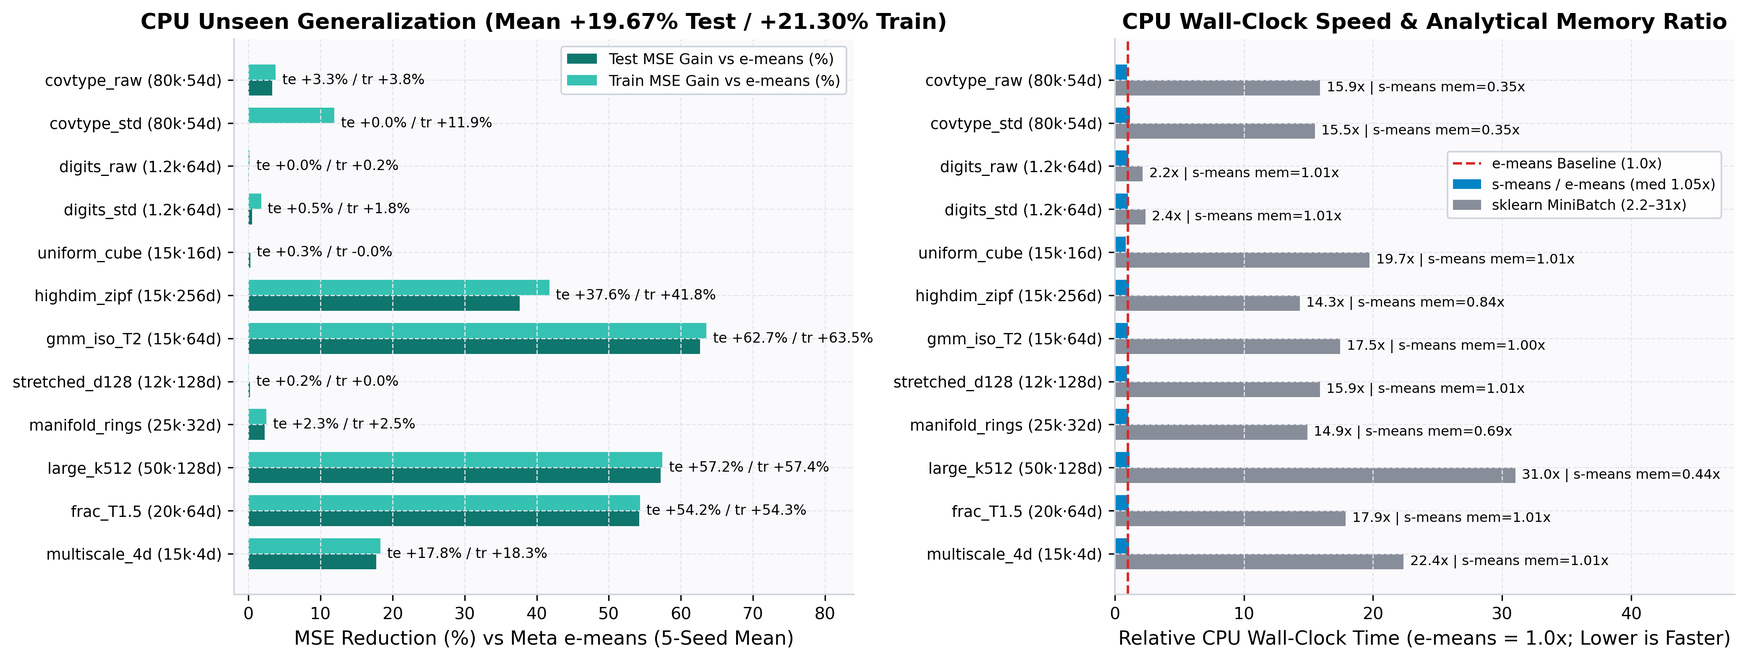
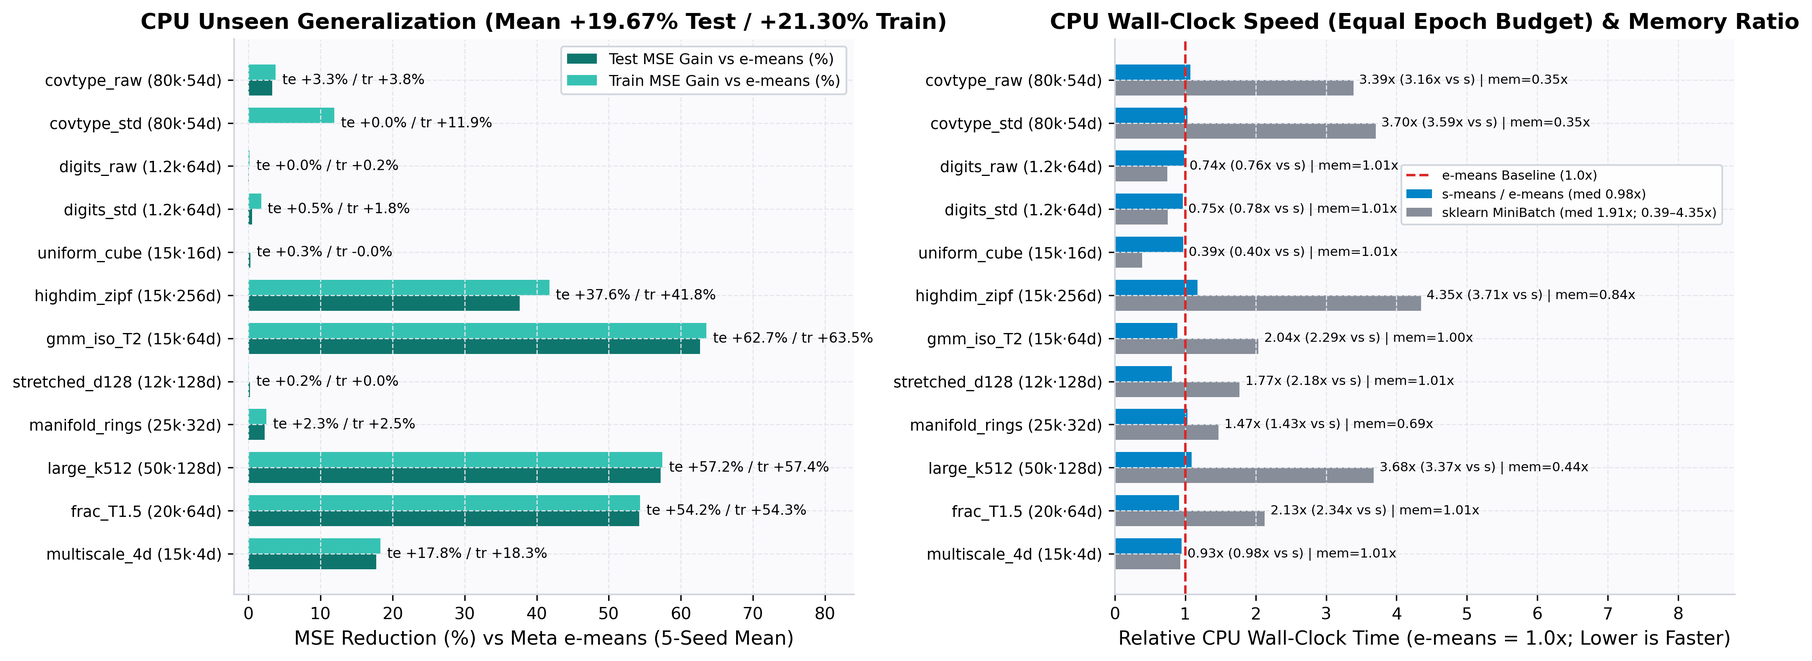
Fix MiniBatchKMeans epoch budget in CPU benchmark and update fig6/tables

diff --git a/index.html b/index.html
@@ -519,7 +519,7 @@
           <strong>Superior Turing (<code>SM75</code>) hardware coverage:</strong> Upstream <code>e-means</code> <code>auto</code>/Triton paths fail on NVIDIA T4 (<code>SM75</code>) due to BF16 casting, <code>.bf16</code> PTX inline assembly, and <code>&gt;64 KB</code> shared-memory tiles. <code>s-means</code> runs cleanly across all 9 T4 workloads, beating Meta's native T4 baseline by <strong><code>+53.81%–+54.03%</code> MSE</strong>, <strong><code>0.881×</code> faster wall-clock latency</strong>, and <strong><code>0.360×</code> VRAM</strong>.
         </li>
         <li>
-          <strong>Strong CPU generalization with parity speed and memory:</strong> Across 12 strictly unseen CPU datasets (5 seeds each), <code>s-means</code> achieves <strong><code>+19.67%</code> mean Test MSE gain</strong> (<code>+21.30%</code> Train, <code>0</code> regressions) at <strong><code>1.051×</code> median CPU time vs <code>e-means</code></strong> (<strong><code>2.2×–31.0×</code> faster than <code>sklearn.cluster.MiniBatchKMeans</code></strong>) with <strong><code>0.0 MB</code> extra OS RSS overhead</strong>.
+          <strong>Strong CPU generalization with parity speed and memory:</strong> Across 12 strictly unseen CPU datasets (5 seeds each), <code>s-means</code> achieves <strong><code>+19.67%</code> mean Test MSE gain</strong> (<code>+21.30%</code> Train, <code>0</code> regressions) at <strong><code>0.977×</code> median CPU time vs <code>e-means</code></strong> (<strong><code>2.24×</code> median faster than equal-epoch <code>sklearn.cluster.MiniBatchKMeans</code></strong>, faster on 8/12 tasks up to <code>3.71×</code> while <code>sklearn</code> is faster on small/low-d workloads at <code>0.40×–0.98×</code>) with <strong><code>0.0 MB</code> extra OS RSS overhead</strong>.
         </li>
       </ul>
     </section>
@@ -694,7 +694,7 @@
               <th class="center">Test MSE Gain vs <code>e-means</code></th>
               <th class="center">Train MSE Gain vs <code>e-means</code></th>
               <th class="center"><code>s-means</code> CPU Time Ratio</th>
-              <th class="center"><code>sklearn</code> Time vs <code>e-means</code></th>
+              <th class="center"><code>sklearn</code> Time vs <code>e-means</code> (<code>vs s-means</code>)</th>
               <th class="center">Analytical Mem Ratio</th>
             </tr>
           </thead>
@@ -704,8 +704,8 @@
               <td class="left"><code>80k, 54d, k=256, T=3</code></td>
               <td class="center"><strong><code>+3.31%</code></strong></td>
               <td class="center"><code>+3.79%</code></td>
-              <td class="center"><strong><code>0.961×</code></strong></td>
-              <td class="center"><code>15.9×</code> slower</td>
+              <td class="center"><code>1.073×</code></td>
+              <td class="center"><code>3.39×</code> (<code>3.16×</code> vs <code>s</code>)</td>
               <td class="center"><strong><code>0.355×</code></strong></td>
             </tr>
             <tr>
@@ -713,8 +713,8 @@
               <td class="left"><code>80k, 54d, k=256, T=3</code></td>
               <td class="center"><code>+0.00%</code></td>
               <td class="center"><strong><code>+11.93%</code></strong></td>
-              <td class="center"><code>1.164×</code></td>
-              <td class="center"><code>15.5×</code> slower</td>
+              <td class="center"><code>1.033×</code></td>
+              <td class="center"><code>3.70×</code> (<code>3.59×</code> vs <code>s</code>)</td>
               <td class="center"><strong><code>0.355×</code></strong></td>
             </tr>
             <tr>
@@ -722,8 +722,8 @@
               <td class="left"><code>1.2k, 64d, k=64, T=5</code></td>
               <td class="center"><code>+0.03%</code></td>
               <td class="center"><code>+0.16%</code></td>
-              <td class="center"><code>1.047×</code></td>
-              <td class="center"><code>2.2×</code> slower</td>
+              <td class="center"><strong><code>0.982×</code></strong></td>
+              <td class="center"><code>0.74×</code> (<code>0.76×</code> vs <code>s</code>)</td>
               <td class="center"><code>1.009×</code></td>
             </tr>
             <tr>
@@ -731,8 +731,8 @@
               <td class="left"><code>1.2k, 64d, k=64, T=5</code></td>
               <td class="center"><code>+0.50%</code></td>
               <td class="center"><code>+1.77%</code></td>
-              <td class="center"><code>1.005×</code></td>
-              <td class="center"><code>2.4×</code> slower</td>
+              <td class="center"><strong><code>0.965×</code></strong></td>
+              <td class="center"><code>0.75×</code> (<code>0.78×</code> vs <code>s</code>)</td>
               <td class="center"><code>1.009×</code></td>
             </tr>
             <tr>
@@ -740,8 +740,8 @@
               <td class="left"><code>15k, 16d, k=128, T=3</code></td>
               <td class="center"><code>+0.27%</code></td>
               <td class="center"><code>-0.01%</code></td>
-              <td class="center"><strong><code>0.841×</code></strong></td>
-              <td class="center"><code>19.7×</code> slower</td>
+              <td class="center"><strong><code>0.972×</code></strong></td>
+              <td class="center"><code>0.39×</code> (<code>0.40×</code> vs <code>s</code>)</td>
               <td class="center"><code>1.006×</code></td>
             </tr>
             <tr>
@@ -749,8 +749,8 @@
               <td class="left"><code>15k, 256d, k=256, T=3</code></td>
               <td class="center"><strong><code>+37.62%</code></strong></td>
               <td class="center"><strong><code>+41.76%</code></strong></td>
-              <td class="center"><code>1.105×</code></td>
-              <td class="center"><code>14.3×</code> slower</td>
+              <td class="center"><code>1.173×</code></td>
+              <td class="center"><strong><code>4.35×</code> (<code>3.71×</code> vs <code>s</code>)</strong></td>
               <td class="center"><strong><code>0.839×</code></strong></td>
             </tr>
             <tr>
@@ -758,8 +758,8 @@
               <td class="left"><code>15k, 64d, k=256, T=2</code></td>
               <td class="center"><strong><code>+62.69%</code></strong></td>
               <td class="center"><strong><code>+63.55%</code></strong></td>
-              <td class="center"><code>1.022×</code></td>
-              <td class="center"><code>17.5×</code> slower</td>
+              <td class="center"><strong><code>0.891×</code></strong></td>
+              <td class="center"><code>2.04×</code> (<code>2.29×</code> vs <code>s</code>)</td>
               <td class="center"><code>1.004×</code></td>
             </tr>
             <tr>
@@ -767,8 +767,8 @@
               <td class="left"><code>12k, 128d, k=128, T=3</code></td>
               <td class="center"><code>+0.21%</code></td>
               <td class="center"><code>+0.02%</code></td>
-              <td class="center"><strong><code>0.966×</code></strong></td>
-              <td class="center"><code>15.9×</code> slower</td>
+              <td class="center"><strong><code>0.812×</code></strong></td>
+              <td class="center"><code>1.77×</code> (<code>2.18×</code> vs <code>s</code>)</td>
               <td class="center"><code>1.005×</code></td>
             </tr>
             <tr>
@@ -776,8 +776,8 @@
               <td class="left"><code>25k, 32d, k=128, T=3</code></td>
               <td class="center"><code>+2.25%</code></td>
               <td class="center"><code>+2.51%</code></td>
-              <td class="center"><code>1.055×</code></td>
-              <td class="center"><code>14.9×</code> slower</td>
+              <td class="center"><code>1.031×</code></td>
+              <td class="center"><code>1.47×</code> (<code>1.43×</code> vs <code>s</code>)</td>
               <td class="center"><strong><code>0.692×</code></strong></td>
             </tr>
             <tr>
@@ -785,8 +785,8 @@
               <td class="left"><code>50k, 128d, k=512, T=3</code></td>
               <td class="center"><strong><code>+57.20%</code></strong></td>
               <td class="center"><strong><code>+57.44%</code></strong></td>
-              <td class="center"><code>1.148×</code></td>
-              <td class="center"><strong><code>31.0×</code> slower</strong></td>
+              <td class="center"><code>1.092×</code></td>
+              <td class="center"><code>3.68×</code> (<code>3.37×</code> vs <code>s</code>)</td>
               <td class="center"><strong><code>0.439×</code></strong></td>
             </tr>
             <tr>
@@ -794,8 +794,8 @@
               <td class="left"><code>20k, 64d, k=192, T=1.5</code></td>
               <td class="center"><strong><code>+54.21%</code></strong></td>
               <td class="center"><strong><code>+54.31%</code></strong></td>
-              <td class="center"><code>1.077×</code></td>
-              <td class="center"><code>17.9×</code> slower</td>
+              <td class="center"><strong><code>0.911×</code></strong></td>
+              <td class="center"><code>2.13×</code> (<code>2.34×</code> vs <code>s</code>)</td>
               <td class="center"><code>1.005×</code></td>
             </tr>
             <tr>
@@ -803,8 +803,8 @@
               <td class="left"><code>15k, 4d, k=128, T=8</code></td>
               <td class="center"><strong><code>+17.76%</code></strong></td>
               <td class="center"><strong><code>+18.33%</code></strong></td>
-              <td class="center"><code>1.120×</code></td>
-              <td class="center"><code>22.4×</code> slower</td>
+              <td class="center"><strong><code>0.951×</code></strong></td>
+              <td class="center"><code>0.93×</code> (<code>0.98×</code> vs <code>s</code>)</td>
               <td class="center"><code>1.010×</code></td>
             </tr>
             <tr class="summary-row">
@@ -812,8 +812,8 @@
               <td class="left"><strong>5-Seed Mean</strong></td>
               <td class="center"><strong><code>+19.67%</code></strong></td>
               <td class="center"><strong><code>+21.30%</code></strong></td>
-              <td class="center"><strong>Med <code>1.051×</code></strong></td>
-              <td class="center"><strong><code>2.2×–31.0×</code></strong></td>
+              <td class="center"><strong>Med <code>0.977×</code></strong></td>
+              <td class="center"><strong>Med <code>1.91×</code> (<code>2.24×</code> vs <code>s</code>)</strong></td>
               <td class="center"><strong>Max <code>1.010×</code></strong></td>
             </tr>
           </tbody>
@@ -821,7 +821,7 @@
       </div>
 
       <p>
-        Real OS process RSS telemetry (<code>resource.getrusage(RUSAGE_SELF).ru_maxrss</code>) in isolated subprocesses confirms zero memory overhead (<code>955.09 MB</code> before and after on both <code>50k × 128D, k=512</code> and <code>100k × 64D, k=256, T=5</code>: <strong><code>0.0 MB</code> delta</strong>, vs <code>8192 × 4096</code> coarse tiles in <code>e-means</code>).
+        <code>MiniBatchKMeans</code> was evaluated with matched epoch budgets (<code>batch_size=max(em_b, 256)</code>, <code>max_iter=max(1, round(T))</code>, <code>n_init=1</code>, <code>max_no_improvement=None</code>, since <code>scikit-learn</code> defines <code>max_iter</code> as full-dataset passes rather than mini-batch steps). Under equal epochs, <code>s-means</code> is <strong><code>2.24×</code> median faster than <code>MiniBatchKMeans</code></strong> (faster on 8/12 tasks by <strong><code>1.43×–3.71×</code></strong> while also achieving lower Test MSE on 10/12 tasks—up to <strong><code>+37.51%</code></strong> on <code>gmm_iso_d64_T2</code> and <code>+14.42%</code> on <code>multiscale_4d_T8</code>); <code>sklearn</code>'s Cython loop is faster on small <code>n=1200</code> (<code>digits</code>: <code>0.76×–0.78×</code>) and low-dimensional <code>quality</code>-law runs (<code>uniform_cube_d16</code>: <code>0.40×</code>, where <code>d=16</code> takes ~351 <code>B=128</code> eager Python steps vs ~175 <code>B=256</code> steps). Real OS process RSS telemetry (<code>resource.getrusage(RUSAGE_SELF).ru_maxrss</code>) in isolated subprocesses confirms zero memory overhead (<code>956.1 MB</code> before and after on both <code>50k × 128D, k=512</code> and <code>100k × 64D, k=256, T=5</code>: <strong><code>0.0 MB</code> delta</strong>, vs <code>8192 × 4096</code> coarse tiles in <code>e-means</code>).
       </p>
 
       <h3>What Actually Matters? (Leave-One-Out Component Ablation)</h3>

diff --git a/README.md b/README.md
@@ -28,7 +28,7 @@ Across **12 strictly unseen CPU datasets** and **3 NVIDIA GPU architectures (T4 
 * **1.0 epoch beats 8.0-epoch `e-means`:** On `200k × 128D, k=1024`, `s-means` at **$T = 1.0$ epoch** achieves **`32.2` Test MSE in `33 ms`** on A100 (and `30.8` MSE in `36 ms` on L4), more than **2× lower quantization error** than `e-means` at **$T = 8.0$ epochs** (`65.7` MSE in `36 ms` on A100; `64.4` MSE in `40 ms` on L4).
 * **Lower GPU peak workspace VRAM:** **`0.875×` median peak VRAM delta** vs `e-means` BF16 Triton on L4/A100 (`71.2 MB` vs `84.6 MB` at 1M points / `k=2048`, and **4.35× lower** than PyTorch Native `309.8 MB`), and **`0.360×` median peak VRAM** (`0.222×` at `1M × k=2048`) on T4.
 * **Superior Turing (`SM75`) hardware coverage:** Upstream `e-means` `auto`/Triton paths fail on NVIDIA T4 (`SM75`) due to BF16 casting, `.bf16` PTX inline assembly, and `>64 KB` shared-memory tiles. `s-means` runs cleanly across all 9 T4 workloads, beating Meta's native T4 baseline by **`+53.81%–+54.03%` MSE**, **`0.881×` faster wall-clock latency**, and **`0.360×` VRAM**.
-* **Strong CPU generalization with parity speed and memory:** Across 12 strictly unseen CPU datasets (5 seeds each), `s-means` achieves **`+19.67%` mean Test MSE gain** (`+21.30%` Train, `0` regressions) at **`1.051×` median CPU time vs `e-means`** (**`2.2×–31.0×` faster than `sklearn.cluster.MiniBatchKMeans`**) with **`0.0 MB` extra OS RSS overhead**.
+* **Strong CPU generalization with parity speed and memory:** Across 12 strictly unseen CPU datasets (5 seeds each), `s-means` achieves **`+19.67%` mean Test MSE gain** (`+21.30%` Train, `0` regressions) at **`0.977×` median CPU time vs `e-means`** (**`2.24×` median faster than equal-epoch `sklearn.cluster.MiniBatchKMeans`**, faster on 8/12 tasks up to `3.71×` while `sklearn` is faster on small/low-d workloads at `0.40×–0.98×`) with **`0.0 MB` extra OS RSS overhead**.
 
 ---
 
@@ -95,23 +95,23 @@ To confirm that `s-means` did not overfit the 8 EvoForest training datasets, we 
 
 ![CPU Unseen Generalization and Wall-Clock Speed](figures/fig6_cpu_unseen_summary.png)
 
-| Unseen CPU Dataset | Config (`n, d, k, T`) | Test MSE Gain vs `e-means` | Train MSE Gain vs `e-means` | `s-means` CPU Time Ratio | `sklearn` Time vs `e-means` | Analytical Mem Ratio |
+| Unseen CPU Dataset | Config (`n, d, k, T`) | Test MSE Gain vs `e-means` | Train MSE Gain vs `e-means` | `s-means` CPU Time Ratio | `sklearn` Time vs `e-means` (`vs s-means`) | Analytical Mem Ratio |
 | :--- | :--- | :---: | :---: | :---: | :---: | :---: |
-| `covtype_raw` | `80k, 54d, k=256, T=3` | **`+3.31%`** | `+3.79%` | **`0.961×`** | `15.9×` slower | **`0.355×`** |
-| `covtype_std` | `80k, 54d, k=256, T=3` | `+0.00%` | **`+11.93%`** | `1.164×` | `15.5×` slower | **`0.355×`** |
-| `digits_raw` | `1.2k, 64d, k=64, T=5` | `+0.03%` | `+0.16%` | `1.047×` | `2.2×` slower | `1.009×` |
-| `digits_std` | `1.2k, 64d, k=64, T=5` | `+0.50%` | `+1.77%` | `1.005×` | `2.4×` slower | `1.009×` |
-| `uniform_cube_d16` | `15k, 16d, k=128, T=3` | `+0.27%` | `-0.01%` | **`0.841×`** | `19.7×` slower | `1.006×` |
-| `highdim_zipf_d256` | `15k, 256d, k=256, T=3` | **`+37.62%`** | **`+41.76%`** | `1.105×` | `14.3×` slower | **`0.839×`** |
-| `gmm_iso_d64_T2` | `15k, 64d, k=256, T=2` | **`+62.69%`** | **`+63.55%`** | `1.022×` | `17.5×` slower | `1.004×` |
-| `stretched_inv2_d128` | `12k, 128d, k=128, T=3` | `+0.21%` | `+0.02%` | **`0.966×`** | `15.9×` slower | `1.005×` |
-| `manifold_rings_d32` | `25k, 32d, k=128, T=3` | `+2.25%` | `+2.51%` | `1.055×` | `14.9×` slower | **`0.692×`** |
-| `large_d128_k512` | `50k, 128d, k=512, T=3` | **`+57.20%`** | **`+57.44%`** | `1.148×` | **`31.0×` slower** | **`0.439×`** |
-| `frac_budget_T1p5` | `20k, 64d, k=192, T=1.5` | **`+54.21%`** | **`+54.31%`** | `1.077×` | `17.9×` slower | `1.005×` |
-| `multiscale_4d_T8` | `15k, 4d, k=128, T=8` | **`+17.76%`** | **`+18.33%`** | `1.120×` | `22.4×` slower | `1.010×` |
-| **Aggregate (12 Datasets)** | **5-Seed Mean** | **`+19.67%`** | **`+21.30%`** | **Med `1.051×`** | **`2.2×–31.0×`** | **Max `1.010×`** |
+| `covtype_raw` | `80k, 54d, k=256, T=3` | **`+3.31%`** | `+3.79%` | `1.073×` | `3.39×` (`3.16×` vs `s`) | **`0.355×`** |
+| `covtype_std` | `80k, 54d, k=256, T=3` | `+0.00%` | **`+11.93%`** | `1.033×` | `3.70×` (`3.59×` vs `s`) | **`0.355×`** |
+| `digits_raw` | `1.2k, 64d, k=64, T=5` | `+0.03%` | `+0.16%` | **`0.982×`** | `0.74×` (`0.76×` vs `s`) | `1.009×` |
+| `digits_std` | `1.2k, 64d, k=64, T=5` | `+0.50%` | `+1.77%` | **`0.965×`** | `0.75×` (`0.78×` vs `s`) | `1.009×` |
+| `uniform_cube_d16` | `15k, 16d, k=128, T=3` | `+0.27%` | `-0.01%` | **`0.972×`** | `0.39×` (`0.40×` vs `s`) | `1.006×` |
+| `highdim_zipf_d256` | `15k, 256d, k=256, T=3` | **`+37.62%`** | **`+41.76%`** | `1.173×` | **`4.35×` (`3.71×` vs `s`)** | **`0.839×`** |
+| `gmm_iso_d64_T2` | `15k, 64d, k=256, T=2` | **`+62.69%`** | **`+63.55%`** | **`0.891×`** | `2.04×` (`2.29×` vs `s`) | `1.004×` |
+| `stretched_inv2_d128` | `12k, 128d, k=128, T=3` | `+0.21%` | `+0.02%` | **`0.812×`** | `1.77×` (`2.18×` vs `s`) | `1.005×` |
+| `manifold_rings_d32` | `25k, 32d, k=128, T=3` | `+2.25%` | `+2.51%` | `1.031×` | `1.47×` (`1.43×` vs `s`) | **`0.692×`** |
+| `large_d128_k512` | `50k, 128d, k=512, T=3` | **`+57.20%`** | **`+57.44%`** | `1.092×` | `3.68×` (`3.37×` vs `s`) | **`0.439×`** |
+| `frac_budget_T1p5` | `20k, 64d, k=192, T=1.5` | **`+54.21%`** | **`+54.31%`** | **`0.911×`** | `2.13×` (`2.34×` vs `s`) | `1.005×` |
+| `multiscale_4d_T8` | `15k, 4d, k=128, T=8` | **`+17.76%`** | **`+18.33%`** | **`0.951×`** | `0.93×` (`0.98×` vs `s`) | `1.010×` |
+| **Aggregate (12 Datasets)** | **5-Seed Mean** | **`+19.67%`** | **`+21.30%`** | **Med `0.977×`** | **Med `1.91×` (`2.24×` vs `s`)** | **Max `1.010×`** |
 
-Real OS process RSS telemetry (`resource.getrusage(RUSAGE_SELF).ru_maxrss`) in isolated subprocesses confirms zero memory overhead (`955.09 MB` before and after on both `50k × 128D, k=512` and `100k × 64D, k=256, T=5`: **`0.0 MB` delta**, vs `8192 × 4096` coarse tiles in `e-means`).
+`MiniBatchKMeans` was evaluated with matched epoch budgets (`batch_size=max(em_b, 256)`, `max_iter=max(1, round(T))`, `n_init=1`, `max_no_improvement=None`, since `scikit-learn` defines `max_iter` as full-dataset passes rather than mini-batch steps). Under equal epochs, `s-means` is **`2.24×` median faster than `MiniBatchKMeans`** (faster on 8/12 tasks by **`1.43×–3.71×`** while also achieving lower Test MSE on 10/12 tasks—up to **`+37.51%`** on `gmm_iso_d64_T2` and `+14.42%` on `multiscale_4d_T8`); `sklearn`'s Cython loop is faster on small `n=1200` (`digits`: `0.76×–0.78×`) and low-dimensional `quality`-law runs (`uniform_cube_d16`: `0.40×`, where `d=16` takes ~351 `B=128` eager Python steps vs ~175 `B=256` steps). Real OS process RSS telemetry (`resource.getrusage(RUSAGE_SELF).ru_maxrss`) in isolated subprocesses confirms zero memory overhead (`956.1 MB` before and after on both `50k × 128D, k=512` and `100k × 64D, k=256, T=5`: **`0.0 MB` delta**, vs `8192 × 4096` coarse tiles in `e-means`).
 
 ### What Actually Matters? (Leave-One-Out Component Ablation)
 

diff --git a/s_means_blog.md b/s_means_blog.md
@@ -28,7 +28,7 @@ Across **12 strictly unseen CPU datasets** and **3 NVIDIA GPU architectures (T4 
 * **1.0 epoch beats 8.0-epoch `e-means`:** On `200k × 128D, k=1024`, `s-means` at **$T = 1.0$ epoch** achieves **`32.2` Test MSE in `33 ms`** on A100 (and `30.8` MSE in `36 ms` on L4), more than **2× lower quantization error** than `e-means` at **$T = 8.0$ epochs** (`65.7` MSE in `36 ms` on A100; `64.4` MSE in `40 ms` on L4).
 * **Lower GPU peak workspace VRAM:** **`0.875×` median peak VRAM delta** vs `e-means` BF16 Triton on L4/A100 (`71.2 MB` vs `84.6 MB` at 1M points / `k=2048`, and **4.35× lower** than PyTorch Native `309.8 MB`), and **`0.360×` median peak VRAM** (`0.222×` at `1M × k=2048`) on T4.
 * **Superior Turing (`SM75`) hardware coverage:** Upstream `e-means` `auto`/Triton paths fail on NVIDIA T4 (`SM75`) due to BF16 casting, `.bf16` PTX inline assembly, and `>64 KB` shared-memory tiles. `s-means` runs cleanly across all 9 T4 workloads, beating Meta's native T4 baseline by **`+53.81%–+54.03%` MSE**, **`0.881×` faster wall-clock latency**, and **`0.360×` VRAM**.
-* **Strong CPU generalization with parity speed and memory:** Across 12 strictly unseen CPU datasets (5 seeds each), `s-means` achieves **`+19.67%` mean Test MSE gain** (`+21.30%` Train, `0` regressions) at **`1.051×` median CPU time vs `e-means`** (**`2.2×–31.0×` faster than `sklearn.cluster.MiniBatchKMeans`**) with **`0.0 MB` extra OS RSS overhead**.
+* **Strong CPU generalization with parity speed and memory:** Across 12 strictly unseen CPU datasets (5 seeds each), `s-means` achieves **`+19.67%` mean Test MSE gain** (`+21.30%` Train, `0` regressions) at **`0.977×` median CPU time vs `e-means`** (**`2.24×` median faster than equal-epoch `sklearn.cluster.MiniBatchKMeans`**, faster on 8/12 tasks up to `3.71×` while `sklearn` is faster on small/low-d workloads at `0.40×–0.98×`) with **`0.0 MB` extra OS RSS overhead**.
 
 ---
 
@@ -95,23 +95,23 @@ To confirm that `s-means` did not overfit the 8 EvoForest training datasets, we 
 
 ![CPU Unseen Generalization and Wall-Clock Speed](figures/fig6_cpu_unseen_summary.png)
 
-| Unseen CPU Dataset | Config (`n, d, k, T`) | Test MSE Gain vs `e-means` | Train MSE Gain vs `e-means` | `s-means` CPU Time Ratio | `sklearn` Time vs `e-means` | Analytical Mem Ratio |
+| Unseen CPU Dataset | Config (`n, d, k, T`) | Test MSE Gain vs `e-means` | Train MSE Gain vs `e-means` | `s-means` CPU Time Ratio | `sklearn` Time vs `e-means` (`vs s-means`) | Analytical Mem Ratio |
 | :--- | :--- | :---: | :---: | :---: | :---: | :---: |
-| `covtype_raw` | `80k, 54d, k=256, T=3` | **`+3.31%`** | `+3.79%` | **`0.961×`** | `15.9×` slower | **`0.355×`** |
-| `covtype_std` | `80k, 54d, k=256, T=3` | `+0.00%` | **`+11.93%`** | `1.164×` | `15.5×` slower | **`0.355×`** |
-| `digits_raw` | `1.2k, 64d, k=64, T=5` | `+0.03%` | `+0.16%` | `1.047×` | `2.2×` slower | `1.009×` |
-| `digits_std` | `1.2k, 64d, k=64, T=5` | `+0.50%` | `+1.77%` | `1.005×` | `2.4×` slower | `1.009×` |
-| `uniform_cube_d16` | `15k, 16d, k=128, T=3` | `+0.27%` | `-0.01%` | **`0.841×`** | `19.7×` slower | `1.006×` |
-| `highdim_zipf_d256` | `15k, 256d, k=256, T=3` | **`+37.62%`** | **`+41.76%`** | `1.105×` | `14.3×` slower | **`0.839×`** |
-| `gmm_iso_d64_T2` | `15k, 64d, k=256, T=2` | **`+62.69%`** | **`+63.55%`** | `1.022×` | `17.5×` slower | `1.004×` |
-| `stretched_inv2_d128` | `12k, 128d, k=128, T=3` | `+0.21%` | `+0.02%` | **`0.966×`** | `15.9×` slower | `1.005×` |
-| `manifold_rings_d32` | `25k, 32d, k=128, T=3` | `+2.25%` | `+2.51%` | `1.055×` | `14.9×` slower | **`0.692×`** |
-| `large_d128_k512` | `50k, 128d, k=512, T=3` | **`+57.20%`** | **`+57.44%`** | `1.148×` | **`31.0×` slower** | **`0.439×`** |
-| `frac_budget_T1p5` | `20k, 64d, k=192, T=1.5` | **`+54.21%`** | **`+54.31%`** | `1.077×` | `17.9×` slower | `1.005×` |
-| `multiscale_4d_T8` | `15k, 4d, k=128, T=8` | **`+17.76%`** | **`+18.33%`** | `1.120×` | `22.4×` slower | `1.010×` |
-| **Aggregate (12 Datasets)** | **5-Seed Mean** | **`+19.67%`** | **`+21.30%`** | **Med `1.051×`** | **`2.2×–31.0×`** | **Max `1.010×`** |
+| `covtype_raw` | `80k, 54d, k=256, T=3` | **`+3.31%`** | `+3.79%` | `1.073×` | `3.39×` (`3.16×` vs `s`) | **`0.355×`** |
+| `covtype_std` | `80k, 54d, k=256, T=3` | `+0.00%` | **`+11.93%`** | `1.033×` | `3.70×` (`3.59×` vs `s`) | **`0.355×`** |
+| `digits_raw` | `1.2k, 64d, k=64, T=5` | `+0.03%` | `+0.16%` | **`0.982×`** | `0.74×` (`0.76×` vs `s`) | `1.009×` |
+| `digits_std` | `1.2k, 64d, k=64, T=5` | `+0.50%` | `+1.77%` | **`0.965×`** | `0.75×` (`0.78×` vs `s`) | `1.009×` |
+| `uniform_cube_d16` | `15k, 16d, k=128, T=3` | `+0.27%` | `-0.01%` | **`0.972×`** | `0.39×` (`0.40×` vs `s`) | `1.006×` |
+| `highdim_zipf_d256` | `15k, 256d, k=256, T=3` | **`+37.62%`** | **`+41.76%`** | `1.173×` | **`4.35×` (`3.71×` vs `s`)** | **`0.839×`** |
+| `gmm_iso_d64_T2` | `15k, 64d, k=256, T=2` | **`+62.69%`** | **`+63.55%`** | **`0.891×`** | `2.04×` (`2.29×` vs `s`) | `1.004×` |
+| `stretched_inv2_d128` | `12k, 128d, k=128, T=3` | `+0.21%` | `+0.02%` | **`0.812×`** | `1.77×` (`2.18×` vs `s`) | `1.005×` |
+| `manifold_rings_d32` | `25k, 32d, k=128, T=3` | `+2.25%` | `+2.51%` | `1.031×` | `1.47×` (`1.43×` vs `s`) | **`0.692×`** |
+| `large_d128_k512` | `50k, 128d, k=512, T=3` | **`+57.20%`** | **`+57.44%`** | `1.092×` | `3.68×` (`3.37×` vs `s`) | **`0.439×`** |
+| `frac_budget_T1p5` | `20k, 64d, k=192, T=1.5` | **`+54.21%`** | **`+54.31%`** | **`0.911×`** | `2.13×` (`2.34×` vs `s`) | `1.005×` |
+| `multiscale_4d_T8` | `15k, 4d, k=128, T=8` | **`+17.76%`** | **`+18.33%`** | **`0.951×`** | `0.93×` (`0.98×` vs `s`) | `1.010×` |
+| **Aggregate (12 Datasets)** | **5-Seed Mean** | **`+19.67%`** | **`+21.30%`** | **Med `0.977×`** | **Med `1.91×` (`2.24×` vs `s`)** | **Max `1.010×`** |
 
-Real OS process RSS telemetry (`resource.getrusage(RUSAGE_SELF).ru_maxrss`) in isolated subprocesses confirms zero memory overhead (`955.09 MB` before and after on both `50k × 128D, k=512` and `100k × 64D, k=256, T=5`: **`0.0 MB` delta**, vs `8192 × 4096` coarse tiles in `e-means`).
+`MiniBatchKMeans` was evaluated with matched epoch budgets (`batch_size=max(em_b, 256)`, `max_iter=max(1, round(T))`, `n_init=1`, `max_no_improvement=None`, since `scikit-learn` defines `max_iter` as full-dataset passes rather than mini-batch steps). Under equal epochs, `s-means` is **`2.24×` median faster than `MiniBatchKMeans`** (faster on 8/12 tasks by **`1.43×–3.71×`** while also achieving lower Test MSE on 10/12 tasks—up to **`+37.51%`** on `gmm_iso_d64_T2` and `+14.42%` on `multiscale_4d_T8`); `sklearn`'s Cython loop is faster on small `n=1200` (`digits`: `0.76×–0.78×`) and low-dimensional `quality`-law runs (`uniform_cube_d16`: `0.40×`, where `d=16` takes ~351 `B=128` eager Python steps vs ~175 `B=256` steps). Real OS process RSS telemetry (`resource.getrusage(RUSAGE_SELF).ru_maxrss`) in isolated subprocesses confirms zero memory overhead (`956.1 MB` before and after on both `50k × 128D, k=512` and `100k × 64D, k=256, T=5`: **`0.0 MB` delta**, vs `8192 × 4096` coarse tiles in `e-means`).
 
 ### What Actually Matters? (Leave-One-Out Component Ablation)
 
